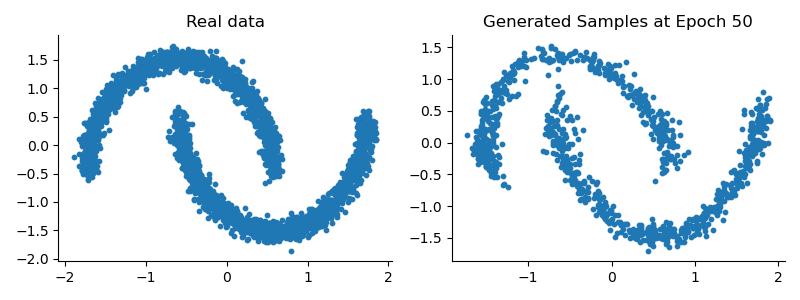
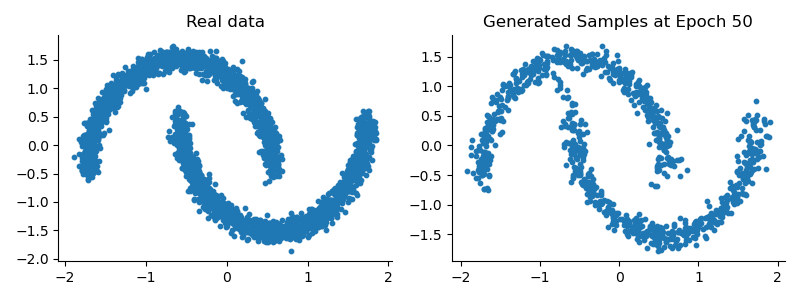
Fix forward for MADE

diff --git a/CS236/homework/hw3_flow_gan/flow_forward.py b/CS236/homework/hw3_flow_gan/flow_forward.py
@@ -1,0 +1,73 @@
+import argparse
+import os
+
+import tqdm
+import numpy as np
+import torch
+import torchvision
+import torch.nn.functional as F
+
+import matplotlib
+
+matplotlib.use("Agg")
+import matplotlib.pyplot as plt
+import seaborn as sns
+
+from codebase.flow_network import MAF
+from codebase.utils import make_halfmoon_toy_dataset, save_checkpoint, plot_samples
+
+
+if __name__ == "__main__":
+    parser = argparse.ArgumentParser(description="Trains a MAF model.")
+    parser.add_argument("--device", default="cpu", help="[cpu,cuda]")
+    parser.add_argument(
+        "--n_flows", default=5, type=int, help="number of planar flow layers"
+    )
+    parser.add_argument(
+        "--hidden_size",
+        default=100,
+        type=int,
+        help="number of hidden units in each flow layer",
+    )
+    parser.add_argument(
+        "--n_epochs", default=50, type=int, help="number of training epochs"
+    )
+    parser.add_argument(
+        "--n_samples",
+        default=30000,
+        type=int,
+        help="total number of data points in toy dataset",
+    )
+    parser.add_argument("--batch_size", default=100, type=int, help="batch size")
+    parser.add_argument("--out_dir", default="maf", help="path to output directory")
+    args = parser.parse_args()
+
+    # reproducibility
+    torch.manual_seed(777)
+    np.random.seed(777)
+    device = torch.device("cuda" if torch.cuda.is_available() else "cpu")
+
+    if not os.path.isdir(args.out_dir):
+        os.makedirs(args.out_dir)
+
+    # load half-moons dataset
+    train_loader, val_loader, test_loader = make_halfmoon_toy_dataset(
+        args.n_samples, args.batch_size
+    )
+
+    # snippet of real data for plotting
+    data_samples = test_loader.dataset
+
+    # load model
+    model = MAF(
+        input_size=2, hidden_size=args.hidden_size, n_hidden=1, n_flows=args.n_flows
+    ).to(device)
+    optimizer = torch.optim.Adam(model.parameters(), lr=1e-3, weight_decay=1e-6)
+
+    checkpoint = torch.load('maf/checkpoint.pth.tar', map_location=device)
+    model.load_state_dict(checkpoint['state_dict'])
+
+
+    # save samples
+    samples = model.sample(device, n=1000)
+    plot_samples(samples, data_samples, 50, args)

diff --git a/CS236/homework/hw3_flow_gan/codebase/flow_network.py b/CS236/homework/hw3_flow_gan/codebase/flow_network.py
@@ -91,13 +91,21 @@ class MADE(nn.Module):
         :return: (x, log_det). log_det should be 1-D (batch_dim,)
         """
         # YOUR CODE STARTS HERE
-        network_output = self.net(z)
-         # Split the network output into mu and alpha parts
-        # Assuming the network outputs mu and log sigma (alpha) concatenated together
-        mu, log_sigma = network_output.chunk(2, dim=1) 
-        x = mu + torch.exp(log_sigma) * z
+
+        # My baseline, which autograder declared as incorrect
+        # network_output = self.net(z)
+        # mu, log_sigma = network_output.chunk(2, dim=1)
+        # x = mu + torch.exp(log_sigma) * z
+        # log_det = - torch.sum(log_sigma, dim=1)
+
+        # Attempt 2
+        x = z
+        for i in range(2):
+            network_output = self.net(x)
+            mu, log_sigma = network_output.chunk(2, dim=1)
+            x = mu + torch.exp(log_sigma) * z
+
         log_det = - torch.sum(log_sigma, dim=1)
-        # YOUR CODE ENDS HERE
 
         return x, log_det
 
